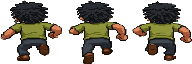
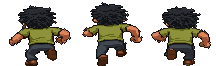
Clean up player and bike sprites
- Remove white halo pixels left from background removal
- Reduce to a shared ~24 color palette (was 3,647 colors on the runner)
- Add a consistent 1px dark outline
- Align frames on the head and a common ground line (no sideways wobble,
  arms no longer clipped); frames are now 72x66

diff --git a/index.html b/index.html
@@ -556,8 +556,8 @@ class RunScene extends Phaser.Scene {
 
   preload() {
     const img = 'assets/images/', au = 'assets/audio/';
-    this.load.spritesheet('player_run', img + 'player_run-sheet.png', { frameWidth: 64, frameHeight: 64 });
-    this.load.spritesheet('bike_run', img + 'bike_run-sheet.png', { frameWidth: 64, frameHeight: 64 });
+    this.load.spritesheet('player_run', img + 'player_run-sheet.png', { frameWidth: 72, frameHeight: 66 });
+    this.load.spritesheet('bike_run', img + 'bike_run-sheet.png', { frameWidth: 72, frameHeight: 66 });
     this.load.spritesheet('meira_attack', img + 'meira_attk.png', { frameWidth: 128, frameHeight: 128 });
     for (const k of ['velhinhos', 'taa', 'tv', 'coco', 'lata', 'bike', 'meira', 'coracao', 'box']) this.load.image(k, img + k + '.png');
     this.load.audio('theme', au + 'tema.ogg');
